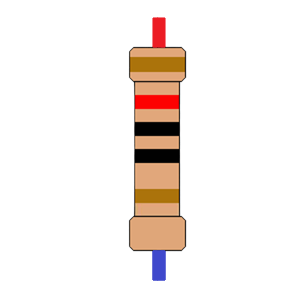
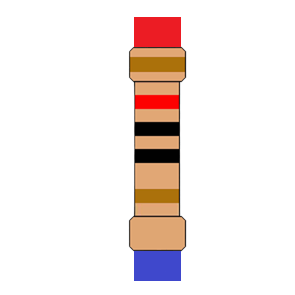
Se creó la Resistencia como tal pero aún faltan detalles como la polaridad y a futuro la interacción con el voltaje.

Changed region(s): [[0.4271, 0.0305, 0.6407, 0.1831], [0.5186, 0.8237, 0.6407, 0.9763], [0.4271, 0.8237, 0.5186, 0.9763]]

diff --git a/src/main/java/com/example/protoboar/Resistencia.java b/src/main/java/com/example/protoboar/Resistencia.java
@@ -15,13 +15,41 @@ public class Resistencia extends Node{
 
     public Resistencia(Group group, double x, double y, conection cables) {
         this.cables = cables;
-        Image image = new Image("/resistencia1.png");
-        this.imageView = new ImageView(image);
+
+        //If para decidir la imagen que corresponde
+        if(cables.getInicio().getCenterX() > cables.getFin().getCenterX()){
+            Image image = new Image("/resistencia1.png");
+            this.imageView = new ImageView(image);
+            // Ajustar las dimensiones del ImageView
+            imageView.setFitWidth(25);
+            imageView.setFitHeight(40);
+        }else{
+            if(cables.getInicio().getCenterX() < cables.getFin().getCenterX()){
+                Image image = new Image("/resistencia4.png");
+                this.imageView = new ImageView(image);
+                // Ajustar las dimensiones del ImageView
+                imageView.setFitWidth(25);
+                imageView.setFitHeight(40);
+            }else{
+                if(cables.getInicio().getCenterY() > cables.getFin().getCenterY()){
+                    Image image = new Image("/resistencia2.png");
+                    this.imageView = new ImageView(image);
+                    // Ajustar las dimensiones del ImageView
+                    imageView.setFitWidth(40);
+                    imageView.setFitHeight(25);
+                }else{
+                    Image image = new Image("/resistencia3.png");
+                    this.imageView = new ImageView(image);
+                    // Ajustar las dimensiones del ImageView
+                    imageView.setFitWidth(40);
+                    imageView.setFitHeight(25);
+                }
+            }
+        }
+
         this.Reduccion = "10";
 
-        // Ajustar las dimensiones del ImageView
-        imageView.setFitWidth(40);
-        imageView.setFitHeight(20);
+
 
         // Posicionar el ImageView en las coordenadas dadas
         imageView.setX(x - imageView.getFitWidth() / 2);
@@ -32,8 +60,6 @@ public class Resistencia extends Node{
 
         group.getChildren().add(imageView);
         imageView.toFront();
-
-
     }
 
     public String getReduccion() {

diff --git a/src/main/java/com/example/protoboar/ManejarCirculos.java b/src/main/java/com/example/protoboar/ManejarCirculos.java
@@ -156,7 +156,7 @@ public class ManejarCirculos {
 
         // Agregar función para borrar al presionar si el modo borrar está activo
         cable.setOnMouseClicked(Click::eliminarElemento);
-        System.out.println("aaaaaaaaaaaaaaaaaaaaa");
+
         if (ledClicked) {
             cable.setStroke(Color.RED);
             cable.setStrokeWidth(5);
@@ -192,10 +192,12 @@ public class ManejarCirculos {
 
             // Colocar la imagen del switch en el punto medio
             crearSwitch(proto, midX, midY, cable);
+
         } else if (resistClicked) {
+
             System.out.println("Se creó una resistencia");
             cable.setFin(c2);
-            cable.setStroke(Color.ORANGE);
+            cable.setStroke(Color.GRAY);
             cable.setStrokeWidth(5);
             proto.getChildren().add(cable);
 
@@ -256,7 +258,6 @@ public class ManejarCirculos {
     }
 
     //Metodo para parar la creacion del cable
-
 
     void parar(MouseEvent event) {
        // System.out.println("Termino esta chingada");

diff --git a/src/main/java/com/example/protoboar/Led.java b/src/main/java/com/example/protoboar/Led.java
@@ -72,12 +72,15 @@ public class Led extends Node{
     public void setCable_rojo(conection cable_rojo) {
         this.cable_rojo = cable_rojo;
     }
+
     public void setCable_azul(conection cable_azul) {
         this.cable_azul = cable_azul;
     }
+
     public conection getCable_rojo() {
         return cable_rojo;
     }
+
     public conection getCable_azul() {
         return cable_azul;
     }
